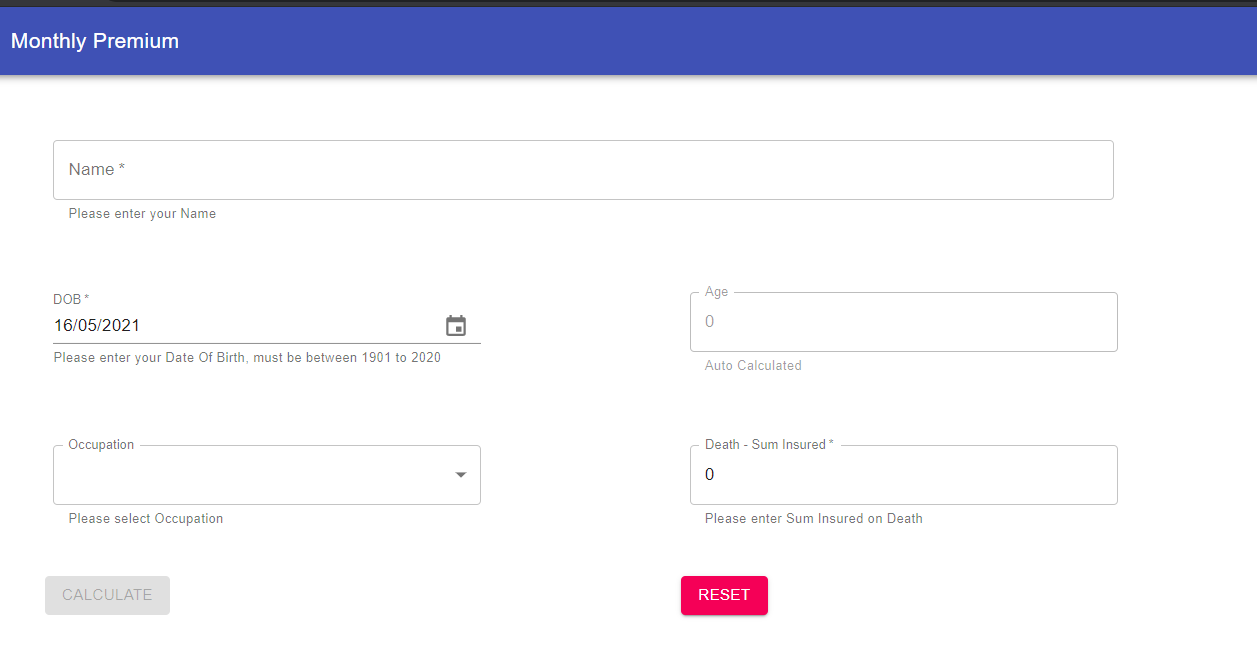
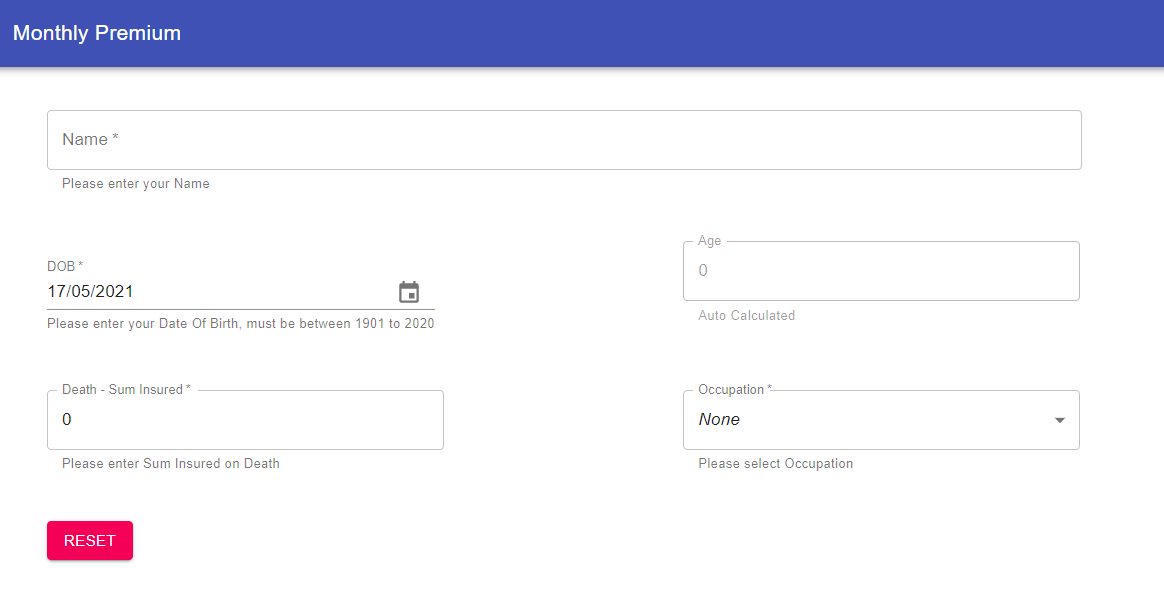
updated posting updated API URL to Azure, screenshot change and readme update

diff --git a/MonthlyPremiums.Web/ClientApp/src/components/PremiumCalculator.jsx b/MonthlyPremiums.Web/ClientApp/src/components/PremiumCalculator.jsx
@@ -27,12 +27,17 @@ export class PremiumCalculator extends Component {
     this.handleSubmit = this.handleSubmit.bind(this);
     this.getMonthlyPremium = this.getMonthlyPremium.bind(this);
     this.calculateAge = this.calculateAge.bind(this);
+    this.validateInputFields = this.validateInputFields.bind(this);
+    this.handleChangeValidation = this.handleChangeValidation.bind(this);
+
     moment().format();
   }
 
   handleChange(event) {
-    if (event != undefined) {
+    if (event != undefined && event != 'Invalid Date') {
+      let eventName = '';
       if (event.target != null) {
+        eventName = event.target.name;
         switch (event.target.name) {
           case 'name':
             this.setState({
@@ -72,20 +77,23 @@ export class PremiumCalculator extends Component {
         }
       }
       else {
+        eventName = 'dob';
         this.calculateAge(event);
         this.setState({
           dateValue: event
         });
       }
+      this.handleChangeValidation(eventName);
+    }
+  }
 
-      if (this.state.name !== "" && this.state.dateValue !== "" && Number(this.state.occupation > 0) && Number(this.state.sumInsured) > 0 && Number(this.state.age) > 0 && (event.target.value !== '' || event !== '')) {
-        this.setState({
-          buttonDisabled: false
-        });
-      } else {
-        this.setState({
-          buttonDisabled: true
-        });
+  handleChangeValidation(eventName) {
+    if (this.state.name !== "" && this.state.dateValue !== "" && Number(this.state.occupation > 0) && Number(this.state.sumInsured) > 0 && Number(this.state.age) > 0) {
+      if (eventName != 'occupation') {
+        if (this.validateInputFields(this.state.occupation)) {
+          //OccupationId is passed irrespective of the condition above, since its used in the getMonthlyPremium()
+          this.getMonthlyPremium(this.state.occupation);
+        }
       }
     }
   }
@@ -117,9 +125,14 @@ export class PremiumCalculator extends Component {
         occupationErrorMsg: ''
       });
     }
-
-    if (this.state.name !== "" && this.state.dateValue !== "" && Number(event.target.value > 0) && Number(this.state.sumInsured) > 0 && Number(this.state.age) > 0) {
+    if (this.validateInputFields(event.target.value)) {
       this.getMonthlyPremium(event.target.value);
+    }
+  }
+
+  validateInputFields(ocptValue) {
+    if (this.state.name !== "" && this.state.dateValue !== "" && Number(ocptValue > 0) && Number(this.state.sumInsured) > 0 && Number(this.state.age) > 0) {
+      return true;
     } else {
       if (this.state.name === "") {
         this.setState({
@@ -131,7 +144,7 @@ export class PremiumCalculator extends Component {
           dateErrorMsg: 'Date Of Birth must be between 1901 to 2020 to calculate monthly premium.'
         });
       }
-      if (Number(event.target.value) <= 0) {
+      if (Number(ocptValue) <= 0) {
         this.setState({
           occupationErrorMsg: 'Please select an occupation to calculate monthly premium'
         });
@@ -141,6 +154,7 @@ export class PremiumCalculator extends Component {
           sumErrorMsg: 'Please enter Death - Sum Insured to calculate premium.'
         });
       }
+      return false;
     }
   }
 
@@ -153,7 +167,7 @@ export class PremiumCalculator extends Component {
       'occupationId': ocptValue,
       'deathSumInsured': this.state.sumInsured
     }
-    const response = await fetch('https://localhost:44304/api/Premium',
+    const response = await fetch('https://monthlypremiumcalculator.azurewebsites.net/api/Premium',
       {
         method: 'POST',
         headers: {

diff --git a/MonthlyPremiums.Web/ClientApp/src/App.js b/MonthlyPremiums.Web/ClientApp/src/App.js
@@ -13,7 +13,7 @@ const App = () => {
   }, []);
 
   async function getOccupationsWithRatings() {
-    const response = await fetch("https://localhost:44304/api/Occupation");
+    const response = await fetch("https://monthlypremiumcalculator.azurewebsites.net/api/Occupation");
     const result = await response.json();
     setOccupations(result);
     setLoading(false);

diff --git a/README.md b/README.md
@@ -8,7 +8,7 @@ Application is hosted in Azure - Pending
    * [Application Screenshots](#application-screenshots)
    * [Installation](#installation)
    * [Features](#features)
-   * [Application Results](#application-results)
+   * [Application Structure](#application-structure)
 	 * [Application User Stories](#application-user-stories)
 	 * [Test Data](#test-data)
 <!--te-->
@@ -29,14 +29,14 @@ Application is hosted in Azure - Pending
 **Monthly Premium Calculator feature**
 - Screens - Monthly Premium.
 - Built 5 different projects libraries
-- Web - responsible for the UI (i.e Client application - React SPA, Materail-UI) coordinated by controllers which execute around 2 different User stories.
+- Web - responsible for the UI (i.e Client application - React SPA, Materail-UI) coordinated by controllers which execute around 3 different User stories.
 - Domain - This is the Domain centric with no implementation and just Entities.
 - Services - Application Service layer which implements contracts and abstracts calls to Repository layer.
 - Repository - A Persitence layer with the idea of abstracting the data access concerns and option to use preferred data access technology. 
-- Tests - Unit Test using xUnit.net, Moq and InMemoryDatabase for more efficient unit testing and used TestHost for TestFixture. Unit test for React app is pending.
-- Application deployed in Azure (Pending) 
+- Tests(28) - Unit & Integration tests using xUnit.net, Moq and InMemoryDatabase for more efficient unit testing and used TestHost for TestFixture. Unit test for React app is pending.
+- Application deployed in Azure - https://monthlypremiumcalculator.azurewebsites.net/ 
 
-## Application Results
+## Application Structure
 Application structure results in following:
 - Independent of Frameworks - Core should not be dependent on external frameworks such as Entity Framework
 - Testable - The logic within Core can be tested independently of anything external, such as UI, databases, servers. Without external dependencies, the tests are very simple to write.
@@ -59,8 +59,15 @@ Application structure results in following:
 		When User clicks Calculate button 
 		Then In the backend the Doctor's rating i.e Professional and Factor of 1.0 teh calulation is done
     When All input is validated the formula used is "Death Premium = (Death Cover amount * Occupation Rating Factor * Age) /1000 * 12"
-    Then The calculated premium is return ed back to UI to user 
+    Then The calculated premium is returned back to UI to user 
 
+### User Story 3:
+- Given all the input fields are specified, change in the occupation dropdown should trigger the premium calculation
+		Given User selects any(other than "None") occupation dropdown 
+		When All the input fields have valid and expected values  
+		Then The POST request is submitted to the backend
+    And The calculated premium is returned back to UI to user 
+    But If any of the input fields have invalid data error message should be shown and not submitted.
 
 ## Test Data
 - All User stories are based on this test data and application is built using this test data
